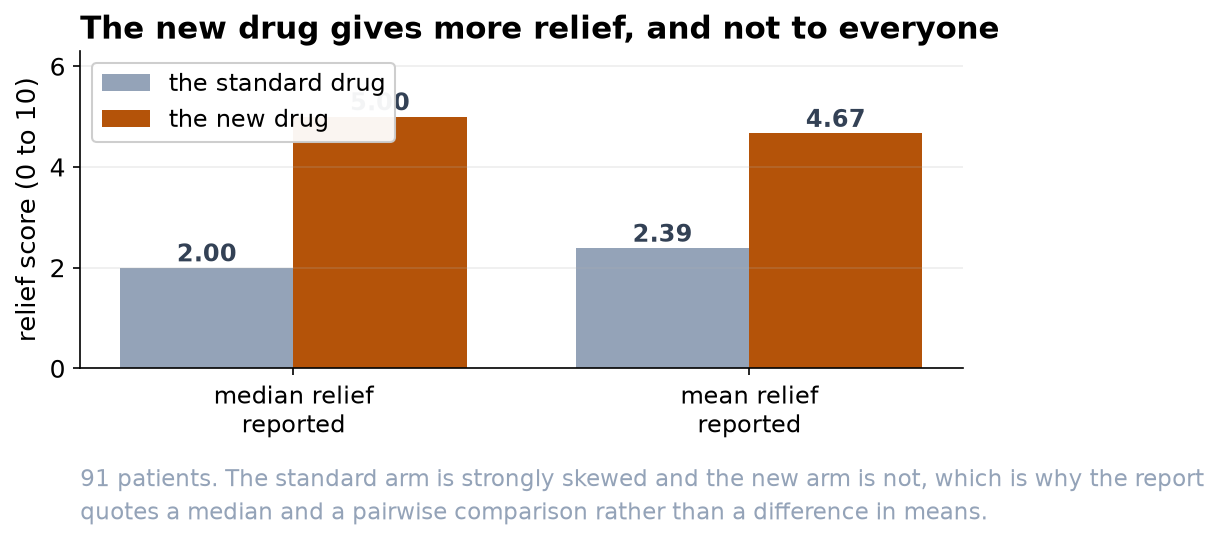
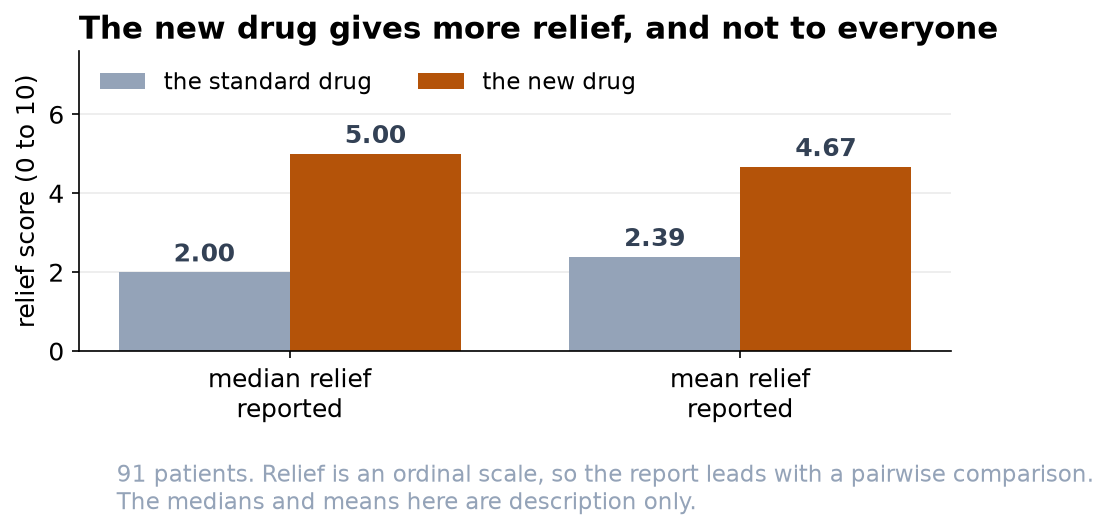
Correct eleven points in Capstone: Pain Relief, Two Treatments
- The page and notebook said that in 75 percent of head-to-head
  pairings the new-treatment patient did better. They did better in
  70 percent and tied in 10; 0.75 counts ties as half, which the
  headline, takeaway and quiz option now say.
- The page and notebook called the drug "certainly better than two in
  three". The interval for the probability of superiority starts at
  0.648, below two thirds, so it is "very likely better than about
  0.65".
- The technical report said the new arm has mass at both extremes and
  a subgroup at the floor of the scale. Only 7 of 45 scores sit at 0-1
  or 9-10; the lower cluster centers near 2 and the upper runs 5 to 8.
  The notebook and brief described the lower group the same way.
- The brief's suggested wording said most new-treatment patients get
  more relief than they would expect from standard care, a
  patient-level counterfactual a parallel trial cannot estimate. It
  now leads with the 62-in-100 against 20-in-100 sentence.
- The brief's relief figure said the report quotes a median because the
  standard arm is skewed. The chapter's reason is that the scale is
  ordinal, and medians are descriptive only. The figure is redrawn.
- The page, notebook and both reports said the baseline pain gap is
  larger than chance comfortably explains. Under random allocation any
  baseline gap is chance; the text now reports the balance test and
  asks whether the gap is large enough to matter.
[…]

Changed region(s): [[0.0, 0.0, 0.9206, 0.812], [0.0614, 0.8421, 1.0, 0.9624], [0.3682, 0.1203, 0.583, 0.1805]]

diff --git a/chapters/notebooks/html/capstone-pain-relief-two-treatments.html b/chapters/notebooks/html/capstone-pain-relief-two-treatments.html
@@ -8100,7 +8100,7 @@ New       median 5.0   IQR 2 to 7   mean 4.67
 </div>
 <div class="jp-InputArea jp-Cell-inputArea"><div class="jp-InputPrompt jp-InputArea-prompt">
 </div><div class="jp-RenderedHTMLCommon jp-RenderedMarkdown jp-MarkdownOutput" data-mime-type="text/markdown">
-<p><strong>Two very different pictures.</strong> The standard treatment produces a single hump crowded against the low end: most patients get one to three points of relief and a handful get more. The new treatment produces <strong>two clusters</strong>: a group down at the bottom who got almost nothing, a near-empty gap at four, and a larger group from five to eight who did well. That is not one distribution shifted along the scale. It is a different shape, and it is the most clinically interesting thing in the dataset.</p>
+<p><strong>Two very different pictures.</strong> The standard treatment produces a single hump crowded against the low end: most patients get one to three points of relief and a handful get more. The new treatment produces <strong>two clusters</strong>: a smaller group low on the scale, mostly at one to three points, a near-empty gap at four, and a larger group from five to eight who did well. That is not one distribution shifted along the scale. It is a different shape, and it is the most clinically interesting thing in the dataset.</p>
 </div>
 </div>
 </div>
@@ -8254,7 +8254,7 @@ rank-biserial correlation  = 0.505
 </div>
 <div class="jp-InputArea jp-Cell-inputArea"><div class="jp-InputPrompt jp-InputArea-prompt">
 </div><div class="jp-RenderedHTMLCommon jp-RenderedMarkdown jp-MarkdownOutput" data-mime-type="text/markdown">
-<p><strong>Reading the result.</strong> The difference is far too large to be chance (p = 0.000028). The effect size is the sentence worth quoting: <strong>pair any patient on the new treatment with any patient on the standard one, and the new-treatment patient comes out ahead about three times in four.</strong> Outright, the new patient wins 70 percent of the pairings and loses 20 percent, with the remaining 10 percent tied; splitting the ties gives the 0.75 figure. That is the common-language effect size, and unlike a difference in means it says something a patient or a clinician can picture directly.</p>
+<p><strong>Reading the result.</strong> A difference this large would be very unlikely if the two treatments were equivalent (p = 0.000028). The effect size is the sentence worth quoting: <strong>pair any patient on the new treatment with any patient on the standard one, and the new-treatment patient comes out ahead about three times in four.</strong> Outright, the new patient wins 70 percent of the pairings and loses 20 percent, with the remaining 10 percent tied; splitting the ties gives the 0.75 figure. That is the common-language effect size, and unlike a difference in means it says something a patient or a clinician can picture directly.</p>
 </div>
 </div>
 </div>
@@ -8320,7 +8320,7 @@ rank-biserial correlation  = 0.505
 </div>
 <div class="jp-InputArea jp-Cell-inputArea"><div class="jp-InputPrompt jp-InputArea-prompt">
 </div><div class="jp-RenderedHTMLCommon jp-RenderedMarkdown jp-MarkdownOutput" data-mime-type="text/markdown">
-<p><strong>Why "test of medians" is the wrong label.</strong> Mann-Whitney tests whether one group's values tend to be larger, a property called <strong>stochastic dominance</strong>. The left panel shows it directly: the new treatment's curve sits at or below the standard's across the whole scale, and strictly below through the range where any clinical threshold would fall, meaning a smaller share of new-treatment patients land under it wherever you draw the line. Only when the two distributions have the <strong>same shape</strong> does that reduce to a statement about medians, and here the shapes are plainly different. So the defensible sentence is the one on the right: <strong>in 75 percent of head-to-head pairings the new-treatment patient did better</strong>. Reporting a median difference of 3 points would be smuggling in a shift model the data do not support.</p>
+<p><strong>Why "test of medians" is the wrong label.</strong> Mann-Whitney tests whether one group's values tend to be larger, a property called <strong>stochastic dominance</strong>. The left panel shows it directly: the new treatment's curve sits at or below the standard's across the whole scale, and strictly below through the range where any clinical threshold would fall, meaning a smaller share of new-treatment patients land under it wherever you draw the line. Only when the two distributions have the <strong>same shape</strong> does that reduce to a statement about medians, and here the shapes are plainly different. So the defensible sentence is the one on the right: <strong>in 70 percent of head-to-head pairings the new-treatment patient did better, and in another 10 percent the two tied</strong>. Reporting a median difference of 3 points would be smuggling in a shift model the data do not support.</p>
 </div>
 </div>
 </div>
@@ -8548,7 +8548,7 @@ New       reaching 4+ points of relief: 28/45 = 62%  95% CI [48%, 75%]
 </div>
 <div class="jp-InputArea jp-Cell-inputArea"><div class="jp-InputPrompt jp-InputArea-prompt">
 </div><div class="jp-RenderedHTMLCommon jp-RenderedMarkdown jp-MarkdownOutput" data-mime-type="text/markdown">
-<p><strong>A range for the claim that will be quoted.</strong> The probability of superiority is 0.75 with an interval of roughly 0.65 to 0.84. Even the pessimistic end of that range is a substantial advantage, which is what makes the finding solid, and the honest phrasing for a clinician is "around three times in four, and certainly better than two in three".</p>
+<p><strong>A range for the claim that will be quoted.</strong> The probability of superiority is 0.75 with an interval of roughly 0.65 to 0.84. Even the pessimistic end of that range is a substantial advantage, which is what makes the finding solid, and the honest phrasing for a clinician is "around three times in four once ties are split evenly, and very likely better than about 0.65".</p>
 <p>The responder proportions get intervals too, and they are what a formulary committee will actually use. The share of new-treatment patients reaching four or more points of relief is 62 percent, plus or minus roughly 14 points. That width is worth stating: it is a 45-patient arm, and it cannot pin a response rate down to the nearest percent.</p>
 </div>
 </div>
@@ -8617,8 +8617,8 @@ patients who start worst have the most room to improve, and drift back regardles
 </div>
 <div class="jp-InputArea jp-Cell-inputArea"><div class="jp-InputPrompt jp-InputArea-prompt">
 </div><div class="jp-RenderedHTMLCommon jp-RenderedMarkdown jp-MarkdownOutput" data-mime-type="text/markdown">
-<p><strong>This check did not pass, and that is worth sitting with.</strong> The new-treatment arm started in more pain than the standard arm, 7.31 against 6.70, and the difference is larger than chance comfortably explains (p = 0.011). Randomization balances groups <strong>in expectation</strong>, not in every particular trial, and with 91 patients a visible imbalance on any given variable is far from rare. This is one.</p>
-<p>The direction is the unhelpful one. Patients who start in more pain have more room to improve, so an arm that begins worse can look better on a change score for reasons that have nothing to do with the drug. That is <strong>regression to the mean</strong>, the same mechanism that haunted the single-arm design in <a href="../../capstone-blood-pressure-before-after.html">Capstone 3</a>, arriving here through the back door of an unlucky allocation.</p>
+<p><strong>This check did not pass, and that is worth sitting with.</strong> The new-treatment arm started in more pain than the standard arm, 7.31 against 6.70, and a balance test gives p = 0.011. Under random allocation any baseline imbalance is chance by construction, so the useful question is whether it is large enough to matter. Randomization balances groups <strong>in expectation</strong>, not in every particular trial, and with 91 patients a visible imbalance on any given variable is far from rare. This is one.</p>
+<p>The direction is the unhelpful one. Patients who start in more pain have more room to improve, so an arm that begins worse can report more relief for reasons that have nothing to do with the drug. That is <strong>regression to the mean</strong>, the same mechanism that haunted the single-arm design in <a href="../../capstone-blood-pressure-before-after.html">Capstone 3</a>, arriving here through the back door of an unlucky allocation.</p>
 <p>Two things stop it from overturning the result. Baseline pain barely relates to reported relief in this trial (rho = 0.08, p = 0.43), so the mechanism that would translate the imbalance into a spurious effect is weak. And the effect itself is large, a probability of superiority of 0.75, which a 0.6-point head start on an 11-point scale is not going to manufacture.</p>
 <p><strong>What it does change is the write-up.</strong> A trial report that quietly omits this table is hiding something a reader would want. The honest version states the imbalance, states why it is unlikely to explain the finding, and pre-specifies a baseline-adjusted analysis for the confirmatory study. Reporting a randomized trial is not the same as reporting that randomization worked.</p>
 </div>
@@ -8631,7 +8631,7 @@ patients who start worst have the most room to improve, and drift back regardles
 </div>
 <div class="jp-InputArea jp-Cell-inputArea"><div class="jp-InputPrompt jp-InputArea-prompt">
 </div><div class="jp-RenderedHTMLCommon jp-RenderedMarkdown jp-MarkdownOutput" data-mime-type="text/markdown">
-<h2 id="Step-13-%C2%B7-Interpret-in-plain-language">Step 13 · Interpret in plain language<a class="anchor-link" href="#Step-13-%C2%B7-Interpret-in-plain-language">¶</a></h2><p>The new analgesic outperforms the standard one. Pairing patients across the two arms at random, the new-treatment patient reports more relief roughly three times in four, and the result is not attributable to chance. The benefit, however, is concentrated: most of it goes to a responder group, while a minority of patients gain little. Any recommendation should carry both halves of that sentence.</p>
+<h2 id="Step-13-%C2%B7-Interpret-in-plain-language">Step 13 · Interpret in plain language<a class="anchor-link" href="#Step-13-%C2%B7-Interpret-in-plain-language">¶</a></h2><p>The new analgesic outperforms the standard one. Pairing patients across the two arms at random, the new-treatment patient reports more relief roughly three times in four, and a difference this large would be very unlikely if the treatments were equivalent. The benefit, however, is concentrated: most of it goes to a responder group, while a minority of patients gain little. Any recommendation should carry both halves of that sentence.</p>
 </div>
 </div>
 </div>
@@ -8645,9 +8645,9 @@ patients who start worst have the most room to improve, and drift back regardles
 <h2 id="Step-14-%C2%B7-Ethics,-bias,-and-limits">Step 14 · Ethics, bias, and limits<a class="anchor-link" href="#Step-14-%C2%B7-Ethics,-bias,-and-limits">¶</a></h2><ul>
 <li><strong>The outcome is the patient's word.</strong> Pain relief is self-reported and cannot be otherwise. That is appropriate, since pain is subjective, but it means the measurement carries expectation with it. Without blinding, patients who know they received the new drug may report more relief because they expect more, and this design cannot separate that from a pharmacological effect.</li>
 <li><strong>A responder group is a hypothesis, not a finding.</strong> The two clusters are visible and interesting. Going looking for what distinguishes them, and reporting whatever turns up, is the multiple-comparisons trap from <a href="../../capstone-heart-disease-markers.html">Capstone 4</a> in another costume. Any responder analysis should be pre-specified and confirmed in a fresh trial.</li>
-<li><strong>Relief is not the only outcome that matters.</strong> A drug that helps two thirds of patients substantially may still be the wrong choice if its side-effect profile is worse. This analysis covers one column of a much wider table.</li>
+<li><strong>Relief is not the only outcome that matters.</strong> A drug that helps about 62 percent of patients substantially may still be the wrong choice if its side-effect profile is worse. This analysis covers one column of a much wider table.</li>
 <li><strong>Do not translate ranks into promises.</strong> "Seventy-five percent of pairings favor the new drug" is not "seventy-five percent of patients will be helped". They are different statements, and the second one is the one a patient will hear if the first is worded loosely.</li>
-<li><strong>Who was in the trial.</strong> Ninety-one patients from one recruitment stream. Whether the responder proportion holds in a broader population is unknown from these data.</li>
+<li><strong>Who was in the trial.</strong> Ninety-one patients, and the file does not record how they were recruited. Whether the responder proportion holds in a broader population is unknown from these data.</li>
 </ul>
 </div>
 </div>

diff --git a/reports/capstone-14-pain-relief-two-treatments-technical.html b/reports/capstone-14-pain-relief-two-treatments-technical.html
@@ -86,7 +86,7 @@
       <div class="rpt-cap"><span class="n">Table 2.</span> Descriptive statistics. Means are reported for completeness and are not the basis of inference.</div>
       <div class="rpt-tablewrap" tabindex="0"><table class="rpt-table"><thead><tr><th>Arm</th><th>n</th><th>Median</th><th>IQR</th><th>Mean</th><th>SD</th><th>Skew</th></tr></thead><tbody><tr><td><span class='nm'>Standard</span></td><td>46</td><td>2</td><td>1&#8211;3</td><td>2.39</td><td>1.94</td><td>+1.71</td></tr><tr><td><span class='nm'>New</span></td><td>45</td><td>5</td><td>2&#8211;7</td><td>4.67</td><td>2.63</td><td>-0.09</td></tr></tbody></table></div>
       <figure class="rpt-fig"><img src="../assets/img/capstone-pain-dist.png" alt="Two bar charts of relief score frequencies, the standard arm unimodal and right-skewed, the new arm bimodal."><figcaption><span class="n">Figure 1.</span> Frequency of each relief score by arm. Frequencies rather than density estimates are shown, the scale having eleven discrete levels.</figcaption></figure>
-      <p>The distributional difference is qualitative, not merely a matter of location. The standard arm is unimodal with mass concentrated at the low end. The new arm is bimodal, with a subgroup at the floor of the scale and a larger subgroup between five and eight, separated by a near-empty interval at four. This observation constrains the analysis that follows and is returned to in Section 6.</p>
+      <p>The distributional difference is qualitative, not merely a matter of location. The standard arm is unimodal with mass concentrated at the low end. The new arm is bimodal, with a lower subgroup centered near two points and a larger subgroup between five and eight, separated by a near-empty interval at four. This observation constrains the analysis that follows and is returned to in Section 6.</p>
       <h2>3. Methods</h2>
       <div class="rpt-cap"><span class="n">Table 3.</span> Assumption diagnostics.</div>
       <div class="rpt-tablewrap" tabindex="0"><table class="rpt-table"><thead><tr><th>Assumption</th><th>Test</th><th>Result</th><th>Verdict</th></tr></thead><tbody><tr><td><span class='nm'>Normality, standard arm</span></td><td>Shapiro-Wilk</td><td>W = 0.830, p = 9.56e-06</td><td>violated</td></tr><tr><td><span class='nm'>Normality, new arm</span></td><td>Shapiro-Wilk</td><td>W = 0.941, p = 0.024</td><td>violated</td></tr><tr><td><span class='nm'>Homogeneity of variance</span></td><td>Levene</td><td>p = 0.0058</td><td>violated</td></tr><tr><td><span class='nm'>Homogeneity of variance</span></td><td>Bartlett</td><td>p = 0.0445</td><td>violated</td></tr></tbody></table></div>
@@ -107,20 +107,20 @@
       <h2>6. Response heterogeneity</h2>
       <div class="rpt-cap"><span class="n">Table 7.</span> Threshold summaries of the response distribution.</div>
       <div class="rpt-tablewrap" tabindex="0"><table class="rpt-table"><thead><tr><th>Criterion</th><th>Standard</th><th>New</th></tr></thead><tbody><tr><td><span class='nm'>Relief &#8805; 4 points</span></td><td>9 of 46 (20%)</td><td>28 of 45 (62%)</td></tr><tr><td><span class='nm'>Relief &#8804; 1 point</span></td><td>19 of 46 (41%)</td><td>6 of 45 (13%)</td></tr></tbody></table></div>
-      <p>The bimodality of the new-treatment arm is consistent with a mixture of responders and non-responders rather than a uniform effect. Under a mixture, no measure of central tendency describes a patient who actually occurs: the distribution has mass at both extremes and comparatively little in the middle. Reporting the arm by its mean or median alone would therefore misrepresent the clinical situation even though both statistics are correctly computed.</p>
+      <p>The bimodality of the new-treatment arm is consistent with a mixture of responders and non-responders rather than a uniform effect. Under a mixture, no measure of central tendency describes a patient who actually occurs: the distribution has a lower cluster near two points and an upper cluster from five to eight, with little between them at four. Reporting the arm by its mean or median alone would therefore misrepresent the clinical situation even though both statistics are correctly computed.</p>
       <p>Identification of responder characteristics is explicitly outside the scope of this analysis. Post hoc examination of baseline covariates for variables that separate the two clusters would constitute an unrestricted search over a large hypothesis space, with the familiar consequence for the error rate. Any responder hypothesis arising from this trial requires pre-specification and confirmation in an independent sample.</p>
       <h2>7. Interval estimates and baseline comparability</h2>
       <div class="rpt-cap"><span class="n">Table 8.</span> Bootstrap intervals for the effect size, and the baseline comparability assessment.</div>
       <div class="rpt-tablewrap" tabindex="0"><table class="rpt-table"><thead><tr><th>Quantity</th><th>Estimate</th><th>95% CI</th><th>Method</th></tr></thead><tbody><tr><td><span class='nm'>Probability of superiority</span></td><td>0.752</td><td>0.648 to 0.845</td><td>percentile bootstrap</td></tr><tr><td><span class='nm'>Rank-biserial correlation</span></td><td>0.505</td><td>0.296 to 0.690</td><td>percentile bootstrap</td></tr><tr><td><span class='nm'>Hodges-Lehmann shift</span></td><td>+2.0 points</td><td>+1.0 to +4.0</td><td>percentile bootstrap</td></tr><tr><td><span class='nm'>Responders (&#8805; 4 points), new arm</span></td><td>62%</td><td>48% to 75%</td><td>Wilson</td></tr><tr><td><span class='nm'>Responders (&#8805; 4 points), standard arm</span></td><td>20%</td><td>11% to 33%</td><td>Wilson</td></tr><tr><td><span class='nm'>Baseline pain, new arm</span></td><td>7.31</td><td>&#8212;</td><td>mean</td></tr><tr><td><span class='nm'>Baseline pain, standard arm</span></td><td>6.70</td><td>U = 1342, p = 0.011</td><td>Mann-Whitney</td></tr></tbody></table></div>
       <p>The lower bound of the superiority interval remains well above 0.5, so the direction and practical importance of the advantage are secure. The responder proportions carry margins of approximately fourteen percentage points, which is the precision obtainable from arms of this size and should be stated wherever those proportions are used for formulary purposes.</p>
-      <p>The final rows record a baseline comparability assessment not included in the original report, and it does not pass. The arm allocated to the new treatment presented with higher baseline pain than the comparator, and the difference exceeds what chance comfortably accounts for. Randomization equalises group characteristics in expectation and not in any particular realization; imbalance on some measured covariate is unremarkable in trials of this size, and it is present here.</p>
-      <p>The direction of the imbalance is unfavorable to a conservative reading. Patients presenting with greater severity have greater scope for improvement on a change score, so an arm commencing at higher severity may exhibit superior apparent response through regression to the mean rather than through pharmacological action.</p>
+      <p>The final rows record a baseline comparability assessment not included in the original report, and it does not pass. The arm allocated to the new treatment presented with higher baseline pain than the comparator, and a balance test gives p = 0.011. Under random allocation such an imbalance is chance by construction, so its relevance lies in its prognostic size rather than its p-value. Randomization equalizes group characteristics in expectation and not in any particular realization; imbalance on some measured covariate is unremarkable in trials of this size, and it is present here.</p>
+      <p>The direction of the imbalance is unfavorable to a conservative reading. Patients presenting with greater severity may report greater relief, so an arm commencing at higher severity may exhibit superior apparent response through regression to the mean rather than through pharmacological action.</p>
       <p>Two considerations constrain that concern. Baseline severity is only weakly associated with reported relief in these data (&#961; = 0.08, p = 0.43), attenuating the mechanism by which the imbalance would generate a spurious effect; and the magnitude of the observed advantage is not plausibly generated by a differential of 0.6 points on an eleven-point scale. The imbalance is accordingly disclosed rather than treated as invalidating, and a baseline-adjusted analysis should be pre-specified for any confirmatory study. Reporting that a trial was randomized is not equivalent to reporting that randomization achieved balance.</p>
       <h2>8. Discussion</h2>
       <p>The new analgesic stochastically dominates standard care on patient-reported relief, with a probability of superiority of 0.75 and a large rank-biserial effect. Three limitations qualify the interpretation.</p>
       <p>First, the outcome is self-reported, which is appropriate for pain and unavoidable, but it means the measurement incorporates the patient's expectation. In the absence of documented blinding, expectancy effects cannot be distinguished from pharmacological effects, and the estimate should be read as the effect of receiving the new treatment rather than of the compound alone.</p>
       <p>Second, the effect size is a statement about pairings and is easily mis-stated. P = 0.75 does not assert that 75 percent of patients benefit. The distinction is technical but consequential in patient-facing material, where the looser phrasing is the one a reader will retain.</p>
-      <p>Third, the analysis addresses efficacy on a single outcome in 91 patients recruited through one stream. Tolerability, adverse events, and durability of effect are not represented, and the generalizability of the responder proportion is unknown.</p>
+      <p>Third, the analysis addresses efficacy on a single outcome in 91 patients whose recruitment is not recorded. Tolerability, adverse events, and durability of effect are not represented, and the generalizability of the responder proportion is unknown.</p>
       <h2>9. Conclusion</h2>
       <p>Patients receiving the new analgesic reported greater relief than those receiving standard care (U = 1557.5, p = 2.79e-05; probability of superiority 0.752, rank-biserial r = 0.505, n = 91). Because the two arms differ in distributional shape, the result is reported as stochastic dominance rather than as a location shift. The bimodality of the treatment arm indicates heterogeneous response and is the finding most warranting prospective investigation.</p>
       <h2>References</h2>

diff --git a/chapters/capstone-pain-relief-two-treatments.html b/chapters/capstone-pain-relief-two-treatments.html
@@ -136,7 +136,7 @@
       <div><div class="ctitle">The finding, up front</div>
         <p>The new analgesic beats the standard one decisively (U = 1557.5, p = 0.000028, n = 91). The effect size worth
            quoting is not a difference in points: <strong>pair any new-treatment patient with any standard-treatment patient
-           and the new one does better about three times in four</strong>. But the benefit is not spread evenly, and the
+           and the new one does better about three times in four</strong>, counting ties as half. But the benefit is not spread evenly, and the
            averages conceal that.</p></div>
     </div>
   </section>
@@ -305,8 +305,8 @@
         report, and the honest claim is the one about tendency.</div>
     </div>
 
-    <p>So the defensible sentence for this trial is <strong>"in 75 percent of head-to-head pairings the new-treatment patient
-       did better"</strong>. Writing "the median relief was 3 points higher" would be smuggling in a shift model the data do
+    <p>So the defensible sentence for this trial is <strong>"in 70 percent of head-to-head pairings the new-treatment patient
+       did better, and in another 10 percent the two tied"</strong>. Writing "the median relief was 3 points higher" would be smuggling in a shift model the data do
        not support. The medians are 5 and 2, and the difference between them is a real description of these two samples, but
        it is not what the test established.</p>
   </section>
@@ -355,9 +355,9 @@
       <li><strong>Do not translate ranks into promises.</strong> "Seventy-five percent of pairings favor the new drug" is
           not "seventy-five percent of patients will be helped". They are different statements, and the second is the one a
           patient will hear if the first is worded loosely.</li>
-      <li><strong>Relief is one column of a wider table.</strong> A drug that helps two thirds of patients substantially may
+      <li><strong>Relief is one column of a wider table.</strong> A drug that helps about 62 percent of patients substantially may
           still be the wrong choice on side effects, cost, or interactions. This analysis speaks to efficacy on one outcome.</li>
-      <li><strong>Ninety-one patients, one recruitment stream.</strong> Whether the responder proportion holds in a broader
+      <li><strong>Ninety-one patients, recruitment not recorded.</strong> Whether the responder proportion holds in a broader
           population is unknown from these data.</li>
     </ul>
   </section>
@@ -410,7 +410,7 @@
     </div>
 
     <p>Even the pessimistic end of the superiority interval is a substantial advantage, which is what makes the finding solid.
-       The honest phrasing for a clinician is "around three times in four, and certainly better than two in three". The
+       The honest phrasing for a clinician is "around three times in four once ties are split evenly, and very likely better than about 0.65". The
        responder proportions carry margins too, and they are what a formulary committee will actually use: 62 percent give or
        take roughly 14 points is what a 45-patient arm can establish.</p>
 
@@ -418,11 +418,11 @@
       <span class="gb-tag">This check did not pass, and that is worth sitting with</span>
       <p style="margin:0.4rem 0 0">The file records <strong>baseline pain</strong> for every patient, which the analysis had
          not used. In a randomized trial this is the first table of the paper. Here the new-treatment arm started in
-         <em>more</em> pain than the standard arm, 7.31 against 6.70, and the difference is larger than chance comfortably
-         explains (p = 0.011). Randomization balances groups <strong>in expectation</strong>, not in every particular trial,
+         <em>more</em> pain than the standard arm, 7.31 against 6.70, and a balance test gives p = 0.011. Under random allocation
+         any baseline imbalance is chance by construction, so the useful question is whether it is large enough to matter. Randomization balances groups <strong>in expectation</strong>, not in every particular trial,
          and with 91 patients a visible imbalance on some variable is far from rare. This is one.</p>
       <p style="margin:0.7rem 0 0">The direction is the unhelpful one. Patients who start in more pain have more room to
-         improve, so an arm that begins worse can look better on a change score for reasons unrelated to the drug. That is
+         improve, so an arm that begins worse can report more relief for reasons unrelated to the drug. That is
          <strong>regression to the mean</strong>, the mechanism that haunted
          <a href="capstone-blood-pressure-before-after.html">Capstone 3</a>, arriving here through the back door of an unlucky
          allocation.</p>
@@ -445,7 +445,7 @@
           <p>The companion notebook cleans the trial records with a printed audit trail, plots both distributions before
              touching a test, runs the normality and equal-spread checks and records what they said, then computes U along
              with all 2,070 pairwise comparisons behind the effect size. It draws the cumulative curves that make stochastic
-             dominance visible, contrasts a Welch t-test, and closes on the responder split the averages hide.</p>
+             dominance visible, contrasts a Welch t-test, turns to the responder split the averages hide, then closes with bootstrap intervals and the baseline balance check.</p>
         </div>
       </div>
       <div style="display:flex;gap:0.7rem;flex-wrap:wrap">
@@ -481,7 +481,7 @@
       <ul>
         <li><span class="ck">✓</span><span><strong>Mann-Whitney tests stochastic dominance</strong>, whether one group's values tend to be larger, not whether two medians differ.</span></li>
         <li><span class="ck">✓</span><span><strong>It becomes a test of medians only if the two distributions share a shape.</strong> Here one is skewed and one is bimodal, so no single shift exists to report.</span></li>
-        <li><span class="ck">✓</span><span><strong>Quote the probability of superiority</strong> (0.75): a randomly paired new-treatment patient does better three times in four. It is a claim the ordinal scale supports.</span></li>
+        <li><span class="ck">✓</span><span><strong>Quote the probability of superiority</strong> (0.75): a randomly paired new-treatment patient does better three times in four, counting ties as half. It is a claim the ordinal scale supports.</span></li>
         <li><span class="ck">✓</span><span><strong>The stronger case for ranks is measurement, not diagnostics.</strong> The t-test agreed (p = 0.000011); what it could not do was report a difference in units anyone can name.</span></li>
         <li><span class="ck">✓</span><span><strong>Look past the summary.</strong> 62% of new-treatment patients cleared four points against 20% on standard, but 13% got essentially nothing. The average patient does not exist here.</span></li>
       </ul>
@@ -545,7 +545,7 @@ window.addEventListener('scroll', () => {
     },
     {
       q: "The probability of superiority was 0.752. What does that mean?",
-      options: ["75% of new-treatment patients will be helped", "Pairing any new-treatment patient with any standard-treatment patient, the new one does better about 75% of the time", "The new treatment is 75% effective", "There is a 75% chance the result is real"],
+      options: ["75% of new-treatment patients will be helped", "Pairing any new-treatment patient with any standard-treatment patient, the new one does better about 75% of the time, counting ties as half", "The new treatment is 75% effective", "There is a 75% chance the result is real"],
       answer: 1,
       explain: "It is a statement about pairings, not about the proportion of patients who benefit. The distinction matters when the result is communicated."
     },

diff --git a/reports/capstone-14-pain-relief-two-treatments.html b/reports/capstone-14-pain-relief-two-treatments.html
@@ -75,20 +75,20 @@
 
     <div class="rpt-body">
       <h2>Recommendation</h2>
-      <div class="rpt-key"><span class="k-tag">Bottom line</span><p>The new treatment produces more relief than the standard one, and the margin is far too large to be chance. The way to state it: <strong>pair any patient on the new drug with any patient on the standard drug, and the new-drug patient reports more relief about three times in four.</strong> The important qualifier is that the benefit is not spread evenly. Roughly 62% of patients on the new drug got substantial relief, but 13% got essentially none.</p></div>
+      <div class="rpt-key"><span class="k-tag">Bottom line</span><p>The new treatment produces more relief than the standard one, and a margin this large would be very unlikely if the two were equivalent (p = 0.000028). The way to state it: <strong>pair any patient on the new drug with any patient on the standard drug, and the new-drug patient reports more relief about three times in four, counting ties as half.</strong> The important qualifier is that the benefit is not spread evenly. Roughly 62% of patients on the new drug got substantial relief, but 13% got essentially none.</p></div>
       <h2>What we found</h2>
       <p>91 patients reported relief on a 0-to-10 scale after treatment. On the standard drug, most reported one to three points, with a median of 2. On the new drug the median was 5, and the difference between the two groups is decisive (p = 2.8e-05).</p>
       <p>The clean way to express the size of the effect is to compare patients directly. There are 2,070 ways to pair one new-drug patient with one standard-drug patient. The new-drug patient reported more relief in 70 percent of those pairings, less in 20 percent, and the same in the rest.</p>
       <figure class="rpt-fig"><img src="../assets/img/capstone-pain-dominance.png" alt="A cumulative curve comparison and a stacked bar of pairwise wins, ties and losses."><figcaption><span class="n">Figure 1.</span> Left: the share of patients at or below each relief score. The new treatment's line sits lower everywhere, which means wherever you set a bar, fewer of its patients fall short of it. Right: all 2,070 head-to-head pairings.</figcaption></figure>
-      <figure class="rpt-fig"><img src="../assets/img/report-14-relief.png" alt="Paired bars: the standard drug has a median of 2.0 and a mean of 2.39; the new drug has a median of 5.0 and a mean of 4.67."><figcaption><span class="n">Figure 2.</span> Reported relief on each arm, by median and by mean.</figcaption></figure>
+      <figure class="rpt-fig"><img src="../assets/img/report-14-relief.png" alt="Paired bars: the standard drug has a median of 2.0 and a mean of 2.39; the new drug has a median of 5.0 and a mean of 4.67."><figcaption><span class="n">Figure 2.</span> Reported relief on each arm, by median and by mean, shown as description only.</figcaption></figure>
       <h2>The part that should shape how this is communicated</h2>
       <p>The new drug does not lift everybody by a couple of points. It divides patients into two groups. That is visible in the raw distribution as two separate clusters rather than one hump, and it is the finding most likely to be lost if the result is summarized as an average.</p>
-      <figure class="rpt-fig"><img src="../assets/img/capstone-pain-dist.png" alt="Two bar charts of relief scores, one single-humped and one with two separate clusters."><figcaption><span class="n">Figure 3.</span> How many patients gave each relief score. The standard drug produces one cluster near the bottom of the scale. The new drug produces two: a small group who got almost nothing and a larger group who did well.</figcaption></figure>
+      <figure class="rpt-fig"><img src="../assets/img/capstone-pain-dist.png" alt="Two bar charts of relief scores, one single-humped and one with two separate clusters."><figcaption><span class="n">Figure 3.</span> How many patients gave each relief score. The standard drug produces one cluster near the bottom of the scale. The new drug produces two: a smaller group with little relief and a larger group who did well.</figcaption></figure>
       <h2>Suggested wording</h2>
-      <p>Something like: <em>most patients on the new treatment report substantially more relief than they would expect from standard care, though a minority get little benefit. Around 62 in 100 reached four or more points of relief, against 20 in 100 on the standard drug.</em> That is accurate and does not promise every patient the average.</p>
+      <p>Something like: <em>around 62 in 100 reached four or more points of relief, against 20 in 100 on the standard drug.</em> That is accurate and does not promise every patient the average.</p>
       <h2>One thing the trial report must disclose</h2>
       <p>The two arms did not start level. Patients allocated to the new treatment reported more pain at baseline than
-         those on the standard drug, 7.3 against 6.7, and that gap is bigger than chance comfortably explains. Random
+         those on the standard drug, 7.3 against 6.7, and a balance test flags the gap (p = 0.011). Under random allocation any such gap is chance, so the question is whether it is big enough to matter. Random
          allocation evens groups out on average, not in every individual trial, and with 91 patients an imbalance like
          this is not unusual.</p>
       <p>It matters because it runs the wrong way: people who start in more pain have further to improve, so an arm that
